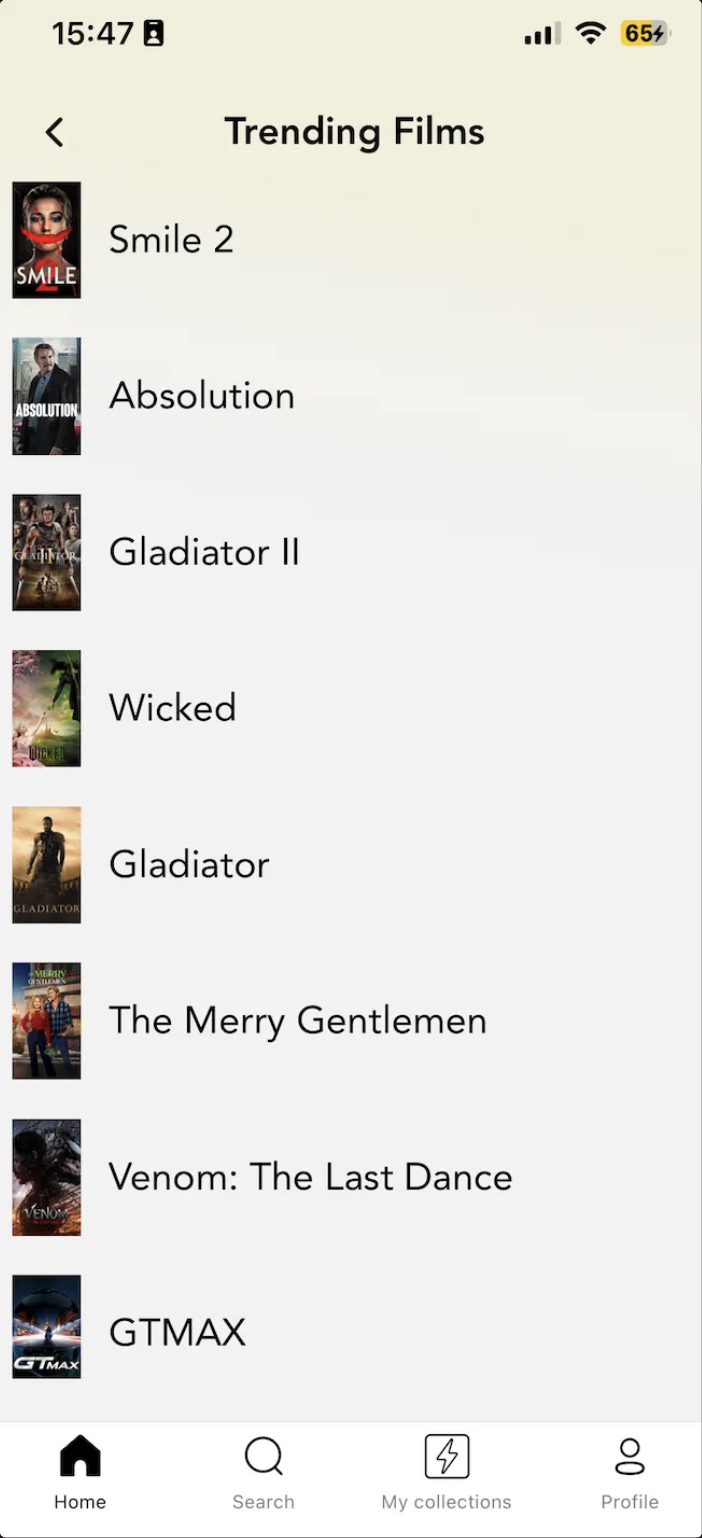
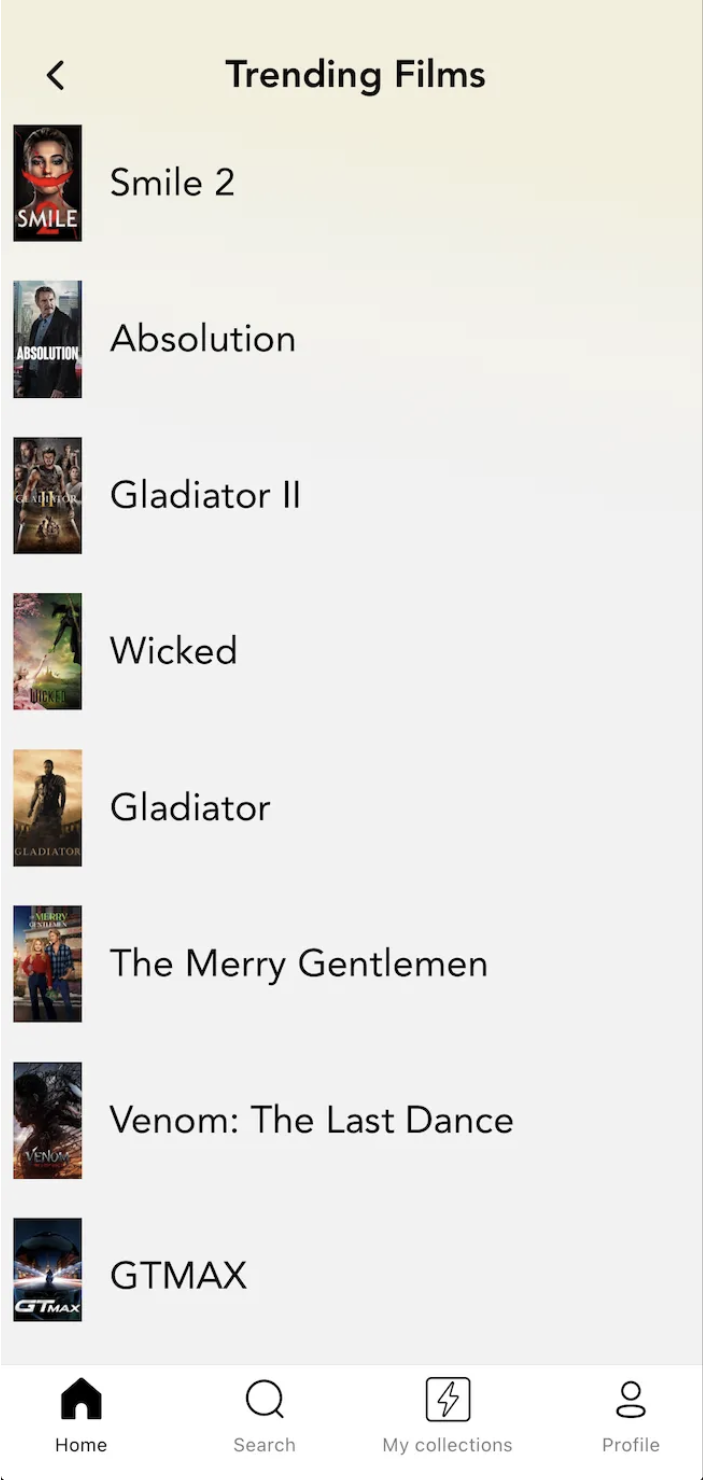
Revert bezels to filled look; swap shuffle before for status-bar-free match

diff --git a/app/work/[slug]/page.tsx b/app/work/[slug]/page.tsx
@@ -161,7 +161,7 @@ const caseStudies: Record<string, CaseStudy> = {
         heading: "Made discovery feel effortless with Shuffle",
         body: "As category lists grew, scrolling felt like work rather than exploration. I redesigned category pages around fewer, larger posters and added a Shuffle action: one tap generates a fresh set of films. A lightweight dice micro-interaction makes it feel playful and intentional, and I tested it with our community over WhatsApp before shipping.",
         pair: {
-          before: { src: "/projects/film-finder/shuffle-before.png", width: 702, height: 1538, caption: "Before" },
+          before: { src: "/projects/film-finder/shuffle-before.png", width: 704, height: 1480, caption: "Before" },
           after: { src: "/projects/film-finder/shuffle-after.mp4", caption: "After" },
           caption: "Before: a long, text-heavy list to scroll through. After: fewer, larger posters with a one-tap Shuffle that generates a fresh set of films.",
         },
@@ -645,10 +645,10 @@ export default async function CaseStudy({ params }: { params: Promise<{ slug: st
                         <div className="grid grid-cols-2 gap-4 sm:gap-8 max-w-xl mx-auto">
                           {([["Before", step.pair.before], ["After", step.pair.after]] as const).map(([label, m]) => (
                             <figure key={label}>
-                              {/* Black bezel with a uniform phone aspect: both before/after match height, and any black matte or letterbox blends into the bezel */}
+                              {/* Black bezel: the video's baked-in black corners blend into it */}
                               <div className="rounded-[30px] bg-black p-[5px] shadow-[0_2px_8px_rgba(0,0,0,0.06),0_18px_50px_rgba(0,0,0,0.18)]">
-                                <div className="relative rounded-[26px] overflow-hidden bg-black" style={{ aspectRatio: "9 / 19.5" }}>
-                                  <Media img={m} fill />
+                                <div className="rounded-[26px] overflow-hidden">
+                                  <Media img={m} />
                                 </div>
                               </div>
                               <figcaption className="text-[11px] font-semibold tracking-[0.15em] uppercase text-[#999] mt-3 text-center">{label}</figcaption>
